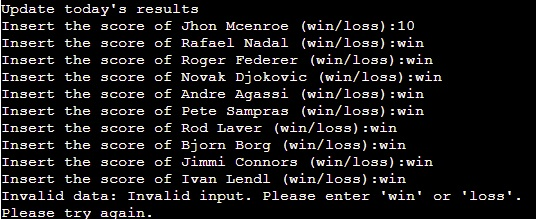
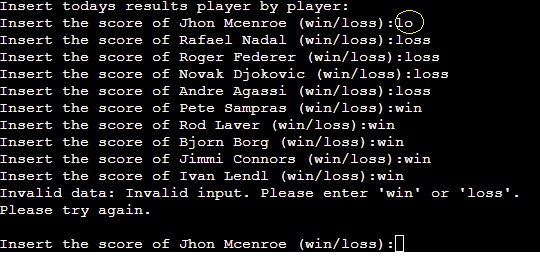
Give a space between the neext upcoming matches and the data to be more easy to read. Add next yociming matches and update more results features in the README.md

diff --git a/run.py b/run.py
@@ -189,7 +189,7 @@ def main():
                 print("There are no upcoming matches. Exiting...")
                 break
             else:
-                print("Next upcoming matches:")
+                print("Next upcoming matches:\n")
                 for match in upcoming:
                     print(match)
             

diff --git a/README.md b/README.md
@@ -36,5 +36,14 @@ Also the program will calculate the score of each, display the leader board, and
 - **Leader Board**
   - Sorted the players by the higest total score  
 
-  ![picture of the Leader Board in the followed format: "1 position player bane with 20 score"](/assets/images/error-message-more-than-5-win-or-loss.jpg)
+  ![picture of the Leader Board in the followed format: "1 position player bane with 20 score"](/assets/images/leader-board.jpg)
+
+- **Next upcoming matches**
+  - It's going to provide the upcoming matches date by date
+
+  ![picture of the next]
+
+- **Update more results**
+  - Will ask if the user want to insert more results
+  - If yes the program will run again giving the following date
 
